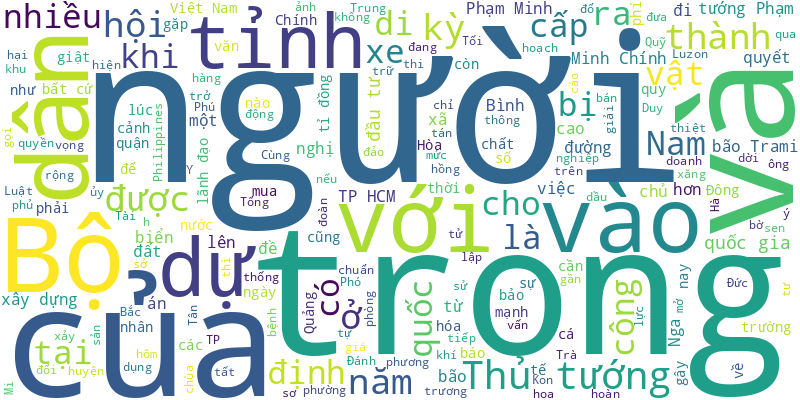
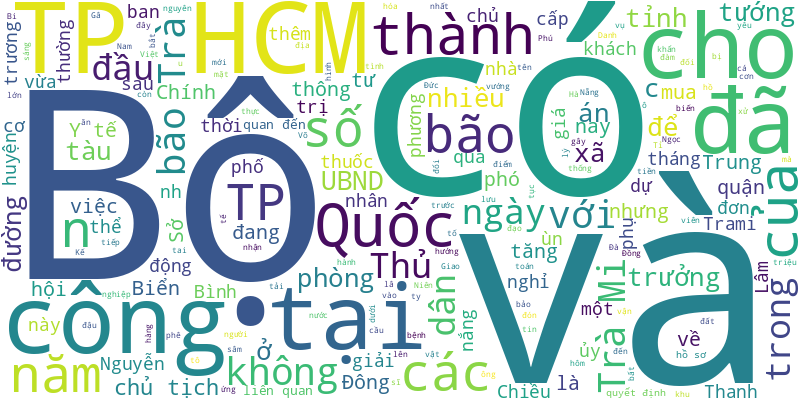
🍀 = 90%

diff --git a/README.md b/README.md
@@ -1,6 +1,11 @@
 # Tuoi Tre RSS 
 
 ## Giáo dục 
+- Vừa qua, nhiều bạn học sinh đã tham quan trang trại Green Farm (Tây Ninh) và nhà máy sữa lớn nhất tại Việt Nam của Vinamilk (Bình Dương). Đây là một hoạt động dành cho các tài năng nhí về lập trình robot đến từ nhiều tỉnh thành trên cả nước.
+- TP.HCM mong muốn giữ ổn định kỳ thi tuyển sinh lớp 10 như các năm học trước. Bên cạnh đó, Sở Giáo dục và Đào tạo TP.HCM cũng đề xuất được chọn môn thi thứ ba.
+- Hiệu trưởng dùng tiền xã hội hóa do phụ huynh đóng góp lắp bạt chống nắng cho các phòng học. Nhưng sau đó phụ huynh phát hiện nhiều dấu hiệu bất thường về giá lắp công trình bạt che nắng này.
+- Xin hãy gỡ từng nút thắt, cởi trói áp lực vô hình đang bủa vây nhà giáo.
+- Thời gian qua, hội đồng trường của một số trường đại học hoạt động khá hiệu quả, nhưng ở nhiều trường hội đồng trường vẫn tồn tại một cách hình thức.
 - Trong giờ ra chơi, ba nam sinh lớp 10 tại Bến Tre xúm lại đánh hội đồng một bạn nam cùng lớp khiến nạn nhân phải nhập viện sau đó.
 - Với khả năng theo dõi hành vi của côn trùng ở tốc độ cao, hệ thống này giúp nghiên cứu về sự suy giảm quần thể côn trùng, đa dạng sinh học hoặc phát triển robot lấy cảm hứng từ côn trùng.
 - Một nam sinh lớp 9 ở Nghệ An bị bạn cùng trường ép ăn đất, hút thuốc lá trong đêm rồi quay clip tung lên mạng xã hội.
@@ -26,43 +31,38 @@
 - Ngày càng nhiều sinh viên Canada tham gia các chương trình trao đổi từ vài tuần đến vài tháng ở TP.HCM, Cần Thơ, Trà Vinh...
 - Trần Anh Nam - sinh viên ngành logistics Trường cao đẳng Kinh tế TP.HCM - vừa tốt nghiệp thủ khoa với điểm số GPA đến 3.88/4.
 - Thái Nguyễn Đăng Khoa - sinh viên năm 3 ngành quản lý nhà nước Học viện Cán bộ TP.HCM - là 1 trong 15 đại biểu Tàu SSEAYP 2024.
-- Những hình ảnh đời thường được các sinh viên chọn đưa vào ống kính thay vì các hình ảnh hiện đại thường thấy ở khu vực trung tâm TP.HCM.
-- Khảo sát cho thấy phần lớn sinh viên có thời gian rảnh từ 2 - 4 giờ mỗi ngày (chiếm 66,7%); 22,9% sinh viên rảnh từ 1 - 2 giờ mỗi ngày.
-- Cô giáo Trương Phương Hạnh bị xử lý kỷ luật ở mức cảnh cáo và không được đứng lớp, chuyển sang làm giáo vụ của trường.
-- Các quan chức khẳng định thực phẩm và đồ uống được cung cấp trong trường học cần phải được sản xuất bằng các nguyên liệu tự nhiên, và phải loại bỏ đồ ăn vặt.
-- Sinh viên khoa truyền thông sáng tạo của Trường đại học Nguyễn Tất Thành có một buổi thực hành tác nghiệp ảnh báo chí thú vị tại Bưu điện TP.HCM.
 ![Edu](Edu.png)
 ## Thời Sự 
-- Trong lúc đi dọc bờ biển, người dân ở Hà Tĩnh phát hiện hai thi thể trôi dạt vào bờ nên nhanh chóng thông báo với chính quyền địa phương.
-- Quận Tân Bình lên lịch họp giải quyết đơn của ông Bùi Mộc về việc sớm cấp sổ hồng trong khi bảng giá đất mới của TP.HCM sắp có hiệu lực (31-10).
-- Sự mập mờ trong việc sử dụng tên gọi “bệnh viện” của các phòng khám tư nhân hiện là một vấn đề đặt ra của xã hội và cần có giải pháp khắc phục kịp thời.
-- Ngày 23-10, thừa ủy quyền của Chính phủ, Bộ trưởng Bộ Tài nguyên và Môi trường Đỗ Đức Duy trình Quốc hội quyết định chủ trương điều chỉnh quy hoạch sử dụng đất quốc gia thời kỳ 2021 - 2030, tầm nhìn đến năm 2050.
-- Việc yêu cầu xăng dầu dự trữ quốc gia phải để ở bồn riêng, trong khi chi phí gửi xăng dầu dự trữ quốc gia tại kho của doanh nghiệp ở mức thấp, duy trì trong nhiều năm đang gây khó khăn cho nhiều doanh nghiệp.
-- Tổng Bí thư, Chủ tịch nước Trung Quốc Tập Cận Bình khẳng định như trên trong cuộc gặp ngắn với Thủ tướng Phạm Minh Chính tại Nga. Cùng ngày, Thủ tướng cũng gặp lãnh đạo Lào và Thổ Nhĩ Kỳ.
-- Dự báo hôm nay (24-10), bão Trami (Trà Mi) vượt qua đảo Luzon (Philippines) đi vào Biển Đông và trở thành cơn bão số 6 trong năm 2024.
-- Bất cứ lúc nào, bất cứ là ai và bất cứ ở đâu, tài xế lái xe cấp cứu là những người 'chạy đua với tử thần' giành giật sự sống cho người bệnh.
-- Tin tức đáng chú ý: Bão Trami sẽ đi vào Biển Đông với sức gió mạnh nhất cấp 9, giật cấp 11; Đề nghị giữ quy định mức phí công đoàn 2%; Bộ Y tế xây dựng ngân hàng câu hỏi chuẩn bị kỳ thi chứng chỉ hành nghề y bác sĩ...
-- Tổng thống Nga Vladimir Putin đích thân đón Thủ tướng Phạm Minh Chính và lãnh đạo các nước khách mời khác.
-- Hôm nay 24-10, thời tiết các tỉnh Bắc Bộ chịu ảnh hưởng của không khí lạnh; Nam Bộ và Trung Bộ giảm mưa.
-- Đánh giá cao sự thành công cũng như truyền thống tự lực, tự cường của cộng đồng người Việt Nam tại Nga, Thủ tướng Phạm Minh Chính mong bà con tiếp tục đoàn kết, hỗ trợ lẫn nhau trong bất kỳ hoàn cảnh nào.
-- Tối 23-10, một trận động đất có độ lớn 3,7 xảy ra tại khu vực huyện Kon Plông, tỉnh Kon Tum.
-- Thông điệp được Phó thủ tướng Nga Alexander Novak nêu ra khi gặp Thủ tướng Phạm Minh Chính tại Kazan ngày 23-10, nhân dịp người đứng đầu Chính phủ Việt Nam sang dự hội nghị BRICS mở rộng.
-- Tối 23-10, bão Trami (bão Trà Mi) mạnh lên cấp 9-10 (75-102km/h), giật cấp 12 (108-133km/h) trước khi đổ bộ vào đảo Luzon, Philippines.
-- Báo cáo về vụ cháy chùa Phổ Quang cho biết cơ sở vật chất trong chùa thiệt hại hoàn toàn, còn bảo vật quốc gia bệ đá hoa sen bị vỡ cánh hoa sen, ước tính thiệt hại 25 tỉ đồng.
-- Dự Luật Di sản văn hóa sửa đổi đề xuất lập Quỹ bảo tồn di sản văn hóa và dùng quỹ mua, đưa di vật, cổ vật, bảo vật quốc gia... từ nước ngoài về Việt Nam.
-- Ông Võ Đình Tiến, giám đốc Sở Kế hoạch và Đầu tư tỉnh Phú Yên, bị kỷ luật cảnh cáo.
-- Quảng Nam dự kiến phương án sơ tán dân khi có bão Trami đổ bộ trực tiếp vào tỉnh này. Trong đó nếu bão mạnh, số người cần di dời, sơ tán gần 190.000 người, nếu là siêu bão thì hơn 380.000 người.
-- Không khí mua bán và trao đổi hàng hóa của ngư dân ở cảng cá phường An Thới (TP Phú Quốc, Kiên Giang) lúc nào cũng nhộn nhịp, đặc biệt chủ tàu đánh cá tất bật chuẩn bị ra khơi với hy vọng cá, mực đầy khoang.
-- Phó thủ tướng Trần Hồng Hà ký quyết định phê duyệt chủ trương đầu tư dự án đầu tư xây dựng, mở rộng đường bộ cao tốc Bắc - Nam phía Đông đoạn cao tốc Cam Lộ - La Sơn từ 2 làn xe lên 4 làn xe.
-- Bạn đọc phản ánh nhiều năm nay, đường Nguyễn Tất Thành, quận 4, TP.HCM trở thành nỗi ám ảnh của người dân do thường xuyên ùn ứ vào giờ cao điểm.
-- Dù đã có quy định, nhiều người vẫn thả rông chó, để cho chúng cắn người, gây tai nạn... Bao giờ vấn nạn chó thả rông được xử lý dứt điểm?
-- Xe nâng đang rẽ vào đường số 14D, phường Bình Hưng Hòa B, quận Bình Tân (TP.HCM) thì xảy ra va chạm với xe máy khiến một người tử vong.
-- Phòng cảnh sát ma túy Công an Đà Nẵng vừa phá thành công chuyên án, bắt nhóm người ngoại tỉnh lập hội nhóm kín trên mạng hoạt động mua bán trái phép chất ma túy loại cần sa và 'tem giấy' (còn gọi là bùa lưỡi được tẩm chất gây ảo giác).
-- Công binh tỉnh Quảng Trị di dời người dân, chặn quốc lộ 15D trong 45 phút để hủy nổ quả bom từ trường nặng 240kg nằm gần cửa khẩu quốc tế La Lay.
-- Một nam sinh lớp 9 ở Nghệ An bị bạn cùng trường ép ăn đất, hút thuốc lá trong đêm rồi quay clip tung lên mạng xã hội.
-- Tỉnh Khánh Hòa đầu tư hơn 2.000 tỉ đồng làm dự án đường ven biển từ xã Vạn Lương, huyện Vạn Ninh đi thị xã Ninh Hòa, thuộc khu kinh tế Vân Phong.
-- Với việc xây dựng văn kiện đại hội, lãnh đạo Thành ủy TP.HCM đề nghị Thủ Đức phải 'gói' được ý Đảng, lòng dân, tâm tư, tình cảm, khát vọng của nhân dân phải được đưa vào nghị quyết.
-- Nhà tang lễ Tam Kỳ (TP Tam Kỳ, Quảng Nam) được đầu tư với kinh phí hơn 10 tỉ đồng xây dựng cách đây hơn chục năm nhưng chỉ vài lần tổ chức tang lễ cho người dân, còn lại dường như đóng cửa im ỉm suốt nhiều năm qua.
+- Dọc các tuyến phố quanh hồ Tây (Hà Nội) như phố Thanh Niên, Nguyễn Đình Thi, Trích Sài... cá chết nổi trắng mặt hồ, bốc mùi hôi thối.
+- Bộ Y tế vừa có thông tư quy định về chi trả trực tiếp bảo hiểm y tế nếu người dân tự mua thuốc, vật tư khi khám chữa bệnh bắt đầu từ năm 2025.
+- Nhức nhối 2 cơ sở tại quận 1 và Thủ Đức hành nghề phẫu thuật thẩm mỹ trái phép gây tai biến cho khách hàng.
+- Rạng sáng 25-10, bão Trà Mi (bão số 6) tăng lên cấp 9-10 (75-102km/h), giật cấp 12 và có khả năng tăng thêm 2 cấp trong hôm nay và ngày mai.
+- Một số tin tức đáng chú ý: Tỉ giá tiếp tục 'nóng'; Nắm 10% vốn Eximbank, Gelex lên tiếng trước tin đồn 'bủa vây'; Công ty phân phối ô tô lớn nhất Việt Nam thay chủ tịch; Kế toán trưởng Tập đoàn Hòa Bình xin nghỉ sau 4 tháng...
+- Hôm nay 25-10, thời tiết cả nước tương đối đẹp, ban ngày trời nắng. Biển Đông đón bão Trà Mi.
+- Trước những diễn biến phức tạp của bão Trà Mi (Trami), nhiều ngư dân đã khẩn trương đưa tàu thuyền về neo đậu tại Đà Nẵng để tránh bão.
+- Thanh niên lẻn vào vườn sâm của người khác nhổ trộm 350 cây sâm Ngọc Linh rồi mang về cất giấu nhưng bị công an bắt giữ sau 2 ngày gây án.
+- 100% thành viên Ủy ban Thường vụ Quốc hội có mặt đã thống nhất thông qua phương án sáp nhập huyện xã của TP Hải Phòng, Đà Nẵng và 19 tỉnh.
+- Gần đây, nhiều người dân đã phản ánh, thắc mắc về việc hiện nay sông Tắc tại khu vực bờ Hòn Rớ, gần cầu Bình Tân, TP Nha Trang đang bị lấn, lấp nhưng dân không rõ làm công trình gì?
+- Bộ Giao thông vận tải yêu cầu Cục Đường bộ Việt Nam khẩn trương đàm phán với nhà đầu tư, kịp thời có giải pháp xử lý dứt điểm các tồn tại của dự án BOT quốc lộ 51.
+- Công an tỉnh Lâm Đồng xác nhận đã khởi tố ông Nguyễn Trung Thành - nguyên phó chủ tịch UBND huyện Bảo Lâm (tỉnh Lâm Đồng) - liên quan đến sai phạm đất đai tại Công ty chè Minh Rồng.
+- Việc thiếu thuốc thời gian vừa qua tại TP.HCM không phải vướng ở cơ chế mua sắm, mà chủ yếu vướng chuỗi cung ứng, ông Lê Ngọc Danh - trưởng phòng nghiệp vụ dược Sở Y tế TP.HCM - cho hay.
+- UBND TP.HCM vừa có quyết định ban hành khung giá cho thuê nhà lưu trú công nhân trong khu công nghiệp tại TP.HCM.
+- Bão Trà Mi (tên quốc tế Trami, bão số 6) có thể đổi hướng bất thường do chịu tác động cùng lúc của hệ thống không khí lạnh và hoàn lưu bão mới hình thành ở vùng biển phía đông Philippines.
+- Thủ tướng Chính phủ đã có quyết định công nhận huyện Đất Đỏ, tỉnh Bà Rịa - Vũng Tàu đạt chuẩn nông thông mới nâng cao. Đây là quê hương của Anh hùng liệt sĩ Võ Thị Sáu.
+- Thủ tướng chỉ đạo chủ tịch các tỉnh, thành phố căn cứ tình hình cụ thể, chủ động quyết định việc cấm biển đối với tàu cá, tàu vận tải, tàu du lịch để ứng phó cơn bão Trà Mi.
+- Để giành chỗ đậu xe ô tô cho khách, một nhà hàng ở quận 1, TP.HCM đã nhiều để vật cản dưới lòng đường, tiềm ẩn nguy cơ tai nạn.
+- Số hồ sơ yêu cầu chứng thực bản sao trên địa bàn TP.HCM rất lớn, tăng qua từng năm. Năm 2023 là gần 7,8 triệu hồ sơ, còn 7 tháng đầu năm 2024 là hơn 3,1 triệu hồ sơ.
+- Quán cà phê kèm ăn sáng tại TP Đông Hà (Quảng Trị) tính phụ thu thêm tiền 'ăn không uống' trong hóa đơn thanh toán, khiến dân mạng dậy sóng tranh cãi.
+- Liên quan đến việc một bé trai tắm suối Lỡ ở xã Cửa Dương (TP Phú Quốc, Kiên Giang) mất tích nghi do nước cuốn trôi, lãnh đạo UBND xã này cho biết lực lượng cứu hộ địa phương đang ra sức lặn tìm kiếm cháu.
+- Sở Sở Kế hoạch và Đầu tư kiến nghị UBND TP.HCM phê bình 11 đơn vị giải ngân dưới mức tỉ lệ giải ngân chung của TP đến hết quý 3 năm 2024 (20,2%) và không có nguyên nhân khách quan.
+- Đường Nguyễn Tất Thành là trục chính kết nối trung tâm TP.HCM với quận 7, nhưng bị ùn tắc triền miên. Hiện đường này đang đứng số 1 danh sách các điểm ùn tắc, với 'thành tích' ùn ứ 811 lần trong chín tháng đầu năm 2024.
+- Bộ trưởng Bộ Y tế Đào Hồng Lan cho rằng thực sự bác sĩ không mong muốn bệnh nhân ra ngoài mua thuốc, bởi vì mua ngoài còn liên quan đến chất lượng, điều trị.
+- Chiều 24-10, Phó chủ tịch UBND TP.HCM Võ Văn Hoan có buổi kiểm tra, làm việc với các đơn vị, thúc đẩy tiến độ dự án xây dựng nút giao An Phú, TP Thủ Đức.
+- Quận Bình Thạnh đã và đang làm nhiều cách để xử lý, ngăn tình trạng rác chất đống ở đường Tố Hữu bên cạnh Học viện Cán bộ TP.HCM (thuộc phường 12) mà Tuổi Trẻ Online phản ánh.
+- Chiều 24-10, tại Bộ Quốc phòng, Đại tướng Phan Văn Giang, bộ trưởng Bộ Quốc phòng, đã chủ trì lễ đón chính thức và hội đàm với Thượng tướng Trương Hựu Hiệp, ủy viên Bộ Chính trị, phó chủ tịch Quân ủy Trung ương Trung Quốc.
+- Nhiều bạn đọc cho rằng cần kéo dài thêm ngày nghỉ lễ Tết dù Bộ Lao động - Thương binh và Xã hội đã trình Thủ tướng phương án nghỉ Tết tới 9 ngày.
+- Chiều nay 24-10, bão Trà Mi (tên quốc tế Trami) đi vào Biển Đông và trở thành cơn bão số 6. Dự báo cường độ bão sẽ liên tục tăng và có thể đổi hướng di chuyển trong 72 đến 120 giờ tới.
+- Hiệu trưởng dùng tiền xã hội hóa do phụ huynh đóng góp lắp bạt chống nắng cho các phòng học. Nhưng sau đó phụ huynh phát hiện nhiều dấu hiệu bất thường về giá lắp công trình bạt che nắng này.
 ![New](News.png)
 ## Nhịp sống số 
 - Meta thể hiện quyết tâm chống lại nạn quảng cáo trục lợi từ hình ảnh người nổi tiếng, khi thử nghiệm công nghệ nhận diện khuôn mặt trên các nền tảng của mình.
